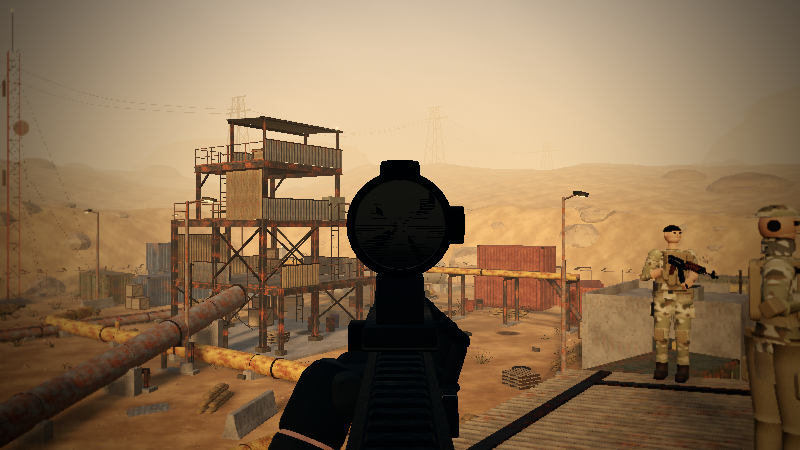
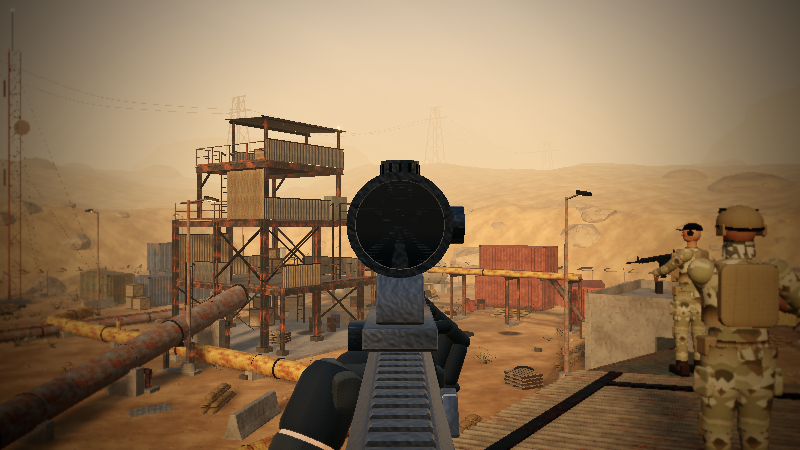
weapons: physically sane metal albedos, shared IBL boost + view fill light so guns read in shade
Claude-Session: https://claude.ai/code/session_01Thf9A9Hs7EcZAf21az3UH5

diff --git a/src/weapons/materials.ts b/src/weapons/materials.ts
@@ -91,13 +91,23 @@ function std(set: PBRSet | null, o: { color?: number; metalness: number; rough?:
  * picks out bevels and sharp radii, which get polished to bare metal / scuffed
  * polymer — the way real parkerized and anodized finishes wear.
  */
+/**
+ * Image-based-light multiplier shared by every weapon/arm material. Scene
+ * environments override per-material envMapIntensity, so the viewmodel sets
+ * this each frame (keeps the gun readable in shade) and the menu preview sets
+ * it back to 1 around its own render.
+ */
+export const IBL_BOOST = { value: 1 }
+
 function wear<T extends MeshStandardMaterial>(m: T, color: number, strength: number): T {
   const wearColor = new Color(color)
   m.onBeforeCompile = (sh) => {
     sh.uniforms.uWearColor = { value: wearColor }
     sh.uniforms.uWear = { value: strength }
+    sh.uniforms.uIblBoost = IBL_BOOST
     sh.fragmentShader = sh.fragmentShader
-      .replace('#include <common>', '#include <common>\nuniform vec3 uWearColor;\nuniform float uWear;')
+      .replace('#include <common>', '#include <common>\nuniform vec3 uWearColor;\nuniform float uWear;\nuniform float uIblBoost;')
+      .replace('#include <lights_fragment_maps>', '#include <lights_fragment_maps>\nradiance *= uIblBoost;\niblIrradiance *= uIblBoost;')
       .replace(
         '#include <map_fragment>',
         `#include <map_fragment>
@@ -120,6 +130,18 @@ function wear<T extends MeshStandardMaterial>(m: T, color: number, strength: num
   return m
 }
 
+/** IBL boost only (no edge wear) for fabric, skin, rubber. */
+function ibl<T extends MeshStandardMaterial>(m: T): T {
+  m.onBeforeCompile = (sh) => {
+    sh.uniforms.uIblBoost = IBL_BOOST
+    sh.fragmentShader = sh.fragmentShader
+      .replace('#include <common>', '#include <common>\nuniform float uIblBoost;')
+      .replace('#include <lights_fragment_maps>', '#include <lights_fragment_maps>\nradiance *= uIblBoost;\niblIrradiance *= uIblBoost;')
+  }
+  m.customProgramCacheKey = () => 'wpnIbl'
+  return m
+}
+
 /**
  * Build the shared material table (idempotent). Reflections come from each
  * scene's `environment` (game sky in first person, studio light in the menu
@@ -128,8 +150,8 @@ function wear<T extends MeshStandardMaterial>(m: T, color: number, strength: num
 export function initViewmodelMaterials(): void {
   if (ready) return
   ready = true
-  sets.gun = makeGunmetal(0x2c2e31, 0x8c8f92)
-  sets.blued = makeGunmetal(0x17191c, 0x5c6066)
+  sets.gun = makeGunmetal(0x585c61, 0xa8abae)
+  sets.blued = makeGunmetal(0x3e434a, 0x8a8f96)
   sets.steel = makeSteel(0xa4a8ac)
   sets.poly = makePolymer()
   sets.wood = makeWood()
@@ -141,12 +163,12 @@ export function initViewmodelMaterials(): void {
   table.set('metal', wear(std(sets.gun!, { metalness: 0.75, rough: 1, normalScale: 0.5 }), 0x9a9c9e, 0.85))
   table.set('steel', wear(std(sets.steel!, { metalness: 1, rough: 1, normalScale: 0.4 }), 0xd8dadc, 0.4))
   table.set('blued', wear(std(sets.blued!, { metalness: 0.85, rough: 0.85, normalScale: 0.45 }), 0x7c8086, 0.7))
-  table.set('poly', wear(std(sets.poly!, { color: 0x232427, metalness: 0.0, rough: 1, normalScale: 0.5 }), 0x55575a, 0.45))
+  table.set('poly', wear(std(sets.poly!, { color: 0x313337, metalness: 0.0, rough: 1, normalScale: 0.5 }), 0x55575a, 0.45))
   table.set('polyTan', wear(std(sets.poly!, { color: 0x8c7a58, metalness: 0.0, rough: 1, normalScale: 0.5 }), 0xb8a888, 0.4))
   table.set('wood', wear(std(sets.wood!, { metalness: 0.0, rough: 1, normalScale: 0.7 }), 0xb06a3a, 0.5))
-  table.set('rubber', std(sets.poly!, { color: 0x161616, metalness: 0, rough: 1.15, normalScale: 0.9 }))
-  table.set('brass', std(null, { color: 0xc89a3c, metalness: 1, rough: 0.28 }))
-  table.set('chrome', std(null, { color: 0xdadde0, metalness: 1, rough: 0.12 }))
+  table.set('rubber', ibl(std(sets.poly!, { color: 0x1c1c1c, metalness: 0, rough: 1.15, normalScale: 0.9 })))
+  table.set('brass', ibl(std(null, { color: 0xc89a3c, metalness: 1, rough: 0.28 })))
+  table.set('chrome', ibl(std(null, { color: 0xdadde0, metalness: 1, rough: 0.12 })))
   table.set('void', new MeshStandardMaterial({ color: 0x050505, roughness: 0.9, metalness: 0 }))
   table.set(
     'lens',
@@ -154,11 +176,11 @@ export function initViewmodelMaterials(): void {
   )
   table.set('glass', new MeshStandardMaterial({ color: 0x9fc6ff, roughness: 0.05, metalness: 0, transparent: true, opacity: 0.1, depthWrite: false, side: DoubleSide, envMapIntensity: 2 }))
   table.set('dot', new MeshBasicMaterial({ color: new Color(1, 0.12, 0.05).multiplyScalar(4), toneMapped: false }))
-  table.set('glove', std(sets.glove!, { color: 0x2a2a26, metalness: 0, rough: 1, normalScale: 0.5 }))
-  table.set('skin', std(sets.skin!, { color: 0xffffff, metalness: 0, rough: 1, normalScale: 0.5 }))
-  table.set('camo', std(sets.camo!, { color: 0xffffff, metalness: 0, rough: 1, normalScale: 1.2 }))
-  table.set('strap', std(sets.glove!, { color: 0x3c3a31, metalness: 0, rough: 1, normalScale: 1.2 }))
-  table.set('grenade', std(sets.grenade!, { color: 0xffffff, metalness: 0.35, rough: 1, normalScale: 1.2 }))
+  table.set('glove', ibl(std(sets.glove!, { color: 0x2a2a26, metalness: 0, rough: 1, normalScale: 0.5 })))
+  table.set('skin', ibl(std(sets.skin!, { color: 0xffffff, metalness: 0, rough: 1, normalScale: 0.5 })))
+  table.set('camo', ibl(std(sets.camo!, { color: 0xffffff, metalness: 0, rough: 1, normalScale: 1.2 })))
+  table.set('strap', ibl(std(sets.glove!, { color: 0x3c3a31, metalness: 0, rough: 1, normalScale: 1.2 })))
+  table.set('grenade', ibl(std(sets.grenade!, { color: 0xffffff, metalness: 0.35, rough: 1, normalScale: 1.2 })))
   table.set('watch', new MeshStandardMaterial({ color: 0xffffff, roughness: 0.3, metalness: 0.3 }))
 
 }

diff --git a/src/weapons/viewmodel.ts b/src/weapons/viewmodel.ts
@@ -7,12 +7,12 @@
  * The WeaponSystem owns gameplay state and hands us an AnimInput each frame;
  * everything here is presentation only.
  */
-import { Euler, Group, Mesh, MeshStandardMaterial, type PerspectiveCamera, Quaternion, type Scene, Vector3 } from 'three'
+import { DirectionalLight, Euler, Group, Mesh, MeshStandardMaterial, type PerspectiveCamera, Quaternion, type Scene, Vector3 } from 'three'
 import type { RenderContext, WeaponId } from '../core/types'
 import { clamp, damp, lerp, smoothstep, Spring } from '../core/math'
 import type { MovementState } from './weapon-system'
 import { Arm } from './hands'
-import { initViewmodelMaterials, mat } from './materials'
+import { IBL_BOOST, initViewmodelMaterials, mat } from './materials'
 import { getViewRig, type Pose, type ViewRig } from './rigs'
 import { type BrassKind, WeaponFx } from './fx'
 import { CylinderGeometry } from 'three'
@@ -50,6 +50,8 @@ export interface AnimInput {
 }
 
 export const VM_FOV = 52
+/** Sky-reflection gain for the first-person weapon (MW2 keeps guns readable in shade). */
+const VM_IBL_BOOST = 2.6
 const VM_FOV_ADS = 40
 
 const seg = (u: number, a: number, b: number) => smoothstep(a, b, u)
@@ -145,6 +147,13 @@ export class Viewmodel {
     this.cam.near = 0.01
     this.cam.updateProjectionMatrix()
     this.scene.add(this.root)
+    // View-relative fill + rim so the weapon stays readable in shade (the
+    // renderer's viewmodel sun fades out when the player stands in shadow).
+    const fill = new DirectionalLight(0xd9e2ee, 1.5)
+    fill.position.set(-0.6, 1.0, 0.7)
+    const rim = new DirectionalLight(0xffe0bc, 0.9)
+    rim.position.set(0.9, 0.4, -0.6)
+    this.scene.add(fill, fill.target, rim, rim.target)
     this.root.add(this.gun, this.knifeHolder, this.fragHolder)
     this.root.add(this.armR.hand.root, this.armR.forearm.root, this.armL.hand.root, this.armL.forearm.root)
     this.fx = new WeaponFx(this.scene)
@@ -638,6 +647,7 @@ export class Viewmodel {
 
     this.root.updateMatrixWorld(true)
     this.fx.update(dt)
+    IBL_BOOST.value = VM_IBL_BOOST
   }
 
   private applyHand(arm: Arm, t: HandTarget) {

diff --git a/src/weapons/preview.ts b/src/weapons/preview.ts
@@ -21,7 +21,7 @@ import {
   WebGLRenderer,
 } from 'three'
 import type { WeaponId } from '../core/types'
-import { initViewmodelMaterials, makeStudioEnvironment } from './materials'
+import { IBL_BOOST, initViewmodelMaterials, makeStudioEnvironment } from './materials'
 import { getViewRig } from './rigs'
 
 const FOV = 24
@@ -130,7 +130,10 @@ export function weaponThumbnail(id: WeaponId, w = 240, h = 96): string {
   st.renderer.setPixelRatio(1)
   st.renderer.setSize(w * 2, h * 2, false)
   frame(st.camera, m, w / h, 1.08)
+  const boost = IBL_BOOST.value
+  IBL_BOOST.value = 1
   st.renderer.render(st.scene, st.camera)
+  IBL_BOOST.value = boost
   const url = st.renderer.domElement.toDataURL('image/png')
   st.scene.remove(m.pivot)
   if (prevParent) prevParent.add(m.pivot)
@@ -323,7 +326,10 @@ export class WeaponPreview {
     st.shadow.position.y = -this.model.height * 0.5 - this.model.radius * 0.18
     st.shadow.scale.set(this.model.radius * 2.4, 1, this.model.radius * 1.1)
     frame(st.camera, this.model, this.w / this.h, 1.04 * this.debugZoom)
+    const boost = IBL_BOOST.value
+    IBL_BOOST.value = 1
     st.renderer.render(st.scene, st.camera)
+    IBL_BOOST.value = boost
   }
 }
 
